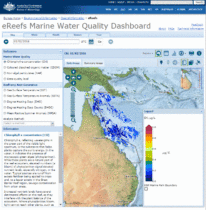
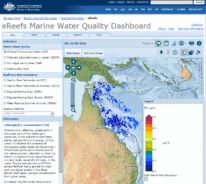
Outputs formatting (#96)
* Fix formatting on eReefs R package page

* Updated screenshots for eReefs outputs

* Add a screenshot for the R package

* Update the preview-images for eReefs outputs

diff --git a/docs/_outputs/open-source-software/ereefs-r-package.md b/docs/_outputs/open-source-software/ereefs-r-package.md
@@ -6,6 +6,8 @@ categories:
   - open-source-software
 ereefs_ip: false
 fa-icon: code
+preview_caption: Screenshot of the AIMS eReefs R package documentation made 2026-03-10
+preview_image: /assets/images/products/aims-ereefs-r-package.png
 title: eReefs R Package
 ---
 
@@ -16,7 +18,7 @@ An R package has been created to help R users to access and visualise eReefs mar
 
 <div style="clear: both;"></div>
 
-# Use Cases
+## Use Cases
 
 - Extracting time-series of simulated water quality at your monitoring stations, to use together with observational data.
 - Visualising a recent event in your area as an animated map.
@@ -24,7 +26,7 @@ An R package has been created to help R users to access and visualise eReefs mar
 - Extracting a vertical profile at a specified location and time.
 - Extracting a vertical slice at a specified location and time.
 
-# Installation instructions
+## Installation instructions
 
 Copy and paste the following lines into R:
 
@@ -35,36 +37,36 @@ if (!requireNamespace("remotes")) {
 remotes::install_github("open-aims/ereefs")
 ```
 
-# Featured Functions
+## Featured Functions
 
-## Extract time-series from eReefs netcdf files
+### Extract time-series from eReefs netcdf files
 
-[get_ereefs_ts()](https://open-aims.github.io/ereefs/reference/get_ereefs_ts.html)
-[get_ereefs_depth_integrated_ts ()](https://open-aims.github.io/ereefs/reference/get_ereefs_depth_integrated_ts.html)
-[get_ereefs_depth_specified_ts()](https://open-aims.github.io/ereefs/reference/get_ereefs_depth_specified_ts.html)
-[get_ereefs_bottom_ts()](https://open-aims.github.io/ereefs/reference/get_ereefs_bottom_ts.html)
+- [get_ereefs_ts()](https://open-aims.github.io/ereefs/reference/get_ereefs_ts.html)
+- [get_ereefs_depth_integrated_ts ()](https://open-aims.github.io/ereefs/reference/get_ereefs_depth_integrated_ts.html)
+- [get_ereefs_depth_specified_ts()](https://open-aims.github.io/ereefs/reference/get_ereefs_depth_specified_ts.html)
+- [get_ereefs_bottom_ts()](https://open-aims.github.io/ereefs/reference/get_ereefs_bottom_ts.html)
 
-## Produce maps or animations of eReefs model outputs
+### Produce maps or animations of eReefs model outputs
 
-[map_ereefs()](https://open-aims.github.io/ereefs/reference/map_ereefs.html)
-[map_ereefs_movie()](https://open-aims.github.io/ereefs/reference/map_ereefs_movie.html)
-[plot_map()](https://open-aims.github.io/ereefs/reference/plot_map.html)
+- [map_ereefs()](https://open-aims.github.io/ereefs/reference/map_ereefs.html)
+- [map_ereefs_movie()](https://open-aims.github.io/ereefs/reference/map_ereefs_movie.html)
+- [plot_map()](https://open-aims.github.io/ereefs/reference/plot_map.html)
 
-## Calculate optical plume class from modelled surface reflectances
+### Calculate optical plume class from modelled surface reflectances
 
-[plume_class()](https://open-aims.github.io/ereefs/reference/plume_class.html)
+- [plume_class()](https://open-aims.github.io/ereefs/reference/plume_class.html)
 
-## Extract profiles and vertical slices
+### Extract profiles and vertical slices
 
-[get_ereefs_profile()](https://open-aims.github.io/ereefs/reference/plot_ereefs_profile.html)
-[get_ereefs_slice()](https://open-aims.github.io/ereefs/reference/plot_ereefs_zvt.html)
+- [get_ereefs_profile()](https://open-aims.github.io/ereefs/reference/plot_ereefs_profile.html)
+- [get_ereefs_slice()](https://open-aims.github.io/ereefs/reference/plot_ereefs_zvt.html)
 
-## Plot profiles
+### Plot profiles
 
-[plot_ereefs_profile()](https://open-aims.github.io/ereefs/reference/plot_ereefs_profile.html)
-[plot_ereefs_zvt()](https://open-aims.github.io/ereefs/reference/plot_ereefs_zvt.html)
+- [plot_ereefs_profile()](https://open-aims.github.io/ereefs/reference/plot_ereefs_profile.html)
+- [plot_ereefs_zvt()](https://open-aims.github.io/ereefs/reference/plot_ereefs_zvt.html)
 
-## Convert outputs to GIS formats
+### Convert outputs to GIS formats
 
-[poly2sp()](https://open-aims.github.io/ereefs/reference/poly2sp.html)
-[sp2raster()](https://open-aims.github.io/ereefs/reference/sp2raster.html)
+- [poly2sp()](https://open-aims.github.io/ereefs/reference/poly2sp.html)
+- [sp2raster()](https://open-aims.github.io/ereefs/reference/sp2raster.html)

diff --git a/docs/_outputs/web-applications/data-explorer.md b/docs/_outputs/web-applications/data-explorer.md
@@ -5,7 +5,10 @@ categories:
   - web-application
   - web-application-featured
 fa-icon: layer-group
-preview_image: /assets/images/products/CSIRO-vis-portal-400x359.jpg
+preview_caption: >
+  Screenshot made on 2026-03-10 of the CSIRO eReefs Data Explorer showing GBR4 Total Chlorophyll and Sentinel 3B Mass Concentration of Chlorophyll-a overlaid
+  with coloured arrows from the GBR4 Sea Water Velocity layer. A timeseries plot of GBR4 total Chlorophyll is displayed in the footer.
+preview_image: /assets/images/products/csiro-data-explorer.png
 tile_url: https://portal.ereefs.info/map
 title: eReefs Data Explorer
 ---

diff --git a/docs/_outputs/web-applications/data-access-tutorials.md b/docs/_outputs/web-applications/data-access-tutorials.md
@@ -1,11 +1,13 @@
 ---
 agency: aims
-caption: Tutorials in Python and R for accessing, plotting and processing eReefs data
+caption: Python and R tutorials for eReefs data access and plotting
 categories:
   - data-access-featured
   - data-access-tutorial
   - web-application
 fa-icon: book-open
+preview_caption: Screenshot of the landing page for the AIMS eReefs tutorials website made 2026-03-10
+preview_image: /assets/images/products/aims-tutorials.png
 tile_url: https://open-aims.github.io/ereefs-tutorials/
 title: eReefs Data Access Tutorials
 ---

diff --git a/docs/_outputs/open-source-software/ereefs-data-access-notebooks.md b/docs/_outputs/open-source-software/ereefs-data-access-notebooks.md
@@ -1,12 +1,14 @@
 ---
 agency: csiro
 breadcrumbs: true
-caption: Jupyter Notebooks with working examples of using eReefs datasets
+caption: Jupyter Notebooks for Python + emsarray + eReefs data access
 categories:
   - data-access-featured
   - data-access-tutorial
   - open-source-software
 fa-icon: code
+preview_caption: Screenshot of the CSIRO eReefs Data Access Notebooks in the Nectar Binderhub service made 2026-03-10
+preview_image: /assets/images/products/csiro-data-access-notebooks.png
 title: eReefs Data Access Notebooks
 ---
 

diff --git a/docs/_outputs/web-applications/reef-temp.md b/docs/_outputs/web-applications/reef-temp.md
@@ -4,9 +4,10 @@ decommission_date: 2024-01-01
 caption: Information about coral bleaching risk for the GBR
 categories: web-application
 fa-icon: map
+preview_caption: Screenshot from 2016 of the now-decommissioned BOM ReefTemp Next Generation Dashboard
 preview_image: /assets/images/products/ReefTempNextGen-2016-400x359.jpg
 status: decommissioned
-title: ReefTemp Next Generation
+title: ReefTemp Next Generation Dashboard
 ---
 {% assign output = page %}
 {% include output-tile.md %}

diff --git a/docs/_outputs/web-applications/ereefs-visualisations.md b/docs/_outputs/web-applications/ereefs-visualisations.md
@@ -5,7 +5,8 @@ categories:
   - web-application
   - web-application-featured
 fa-icon: images
-preview_image: /assets/images/products/aims-ereefs.png
+preview_caption: Screenshot of the Hydrodynamics page from the AIMS eReefs Visualisations website made on 2026-03-10
+preview_image: /assets/images/products/aims-visualisations.png
 tile_url: https://ereefs.aims.gov.au/ereefs-aims
 title: eReefs Visualisations
 ---

diff --git a/docs/_outputs/web-applications/data-broker-api.md b/docs/_outputs/web-applications/data-broker-api.md
@@ -5,7 +5,8 @@ categories:
   - data-access-service
   - web-application
 fa-icon: tools
-preview_image: /assets/images/products/csiro-dbl.png
+preview_caption: Screenshot of the landing page for the CSIRO eReefs Data Broker API's Swagger documentation page made 2026-03-10
+preview_image: /assets/images/products/csiro-data-broker-api.png
 tile_url: https://data.ereefs.info/
 title: eReefs Data Broker API
 ---

diff --git a/docs/_outputs/open-source-software/csiro-emsarray.md b/docs/_outputs/open-source-software/csiro-emsarray.md
@@ -7,7 +7,7 @@ categories:
   - open-source-software-featured
 fa-icon: code
 preview_image: /assets/images/products/CSIRO-emsarray-example.webp
-preview_caption: |
+preview_caption: >
     Example of plotted EMS model output rendered using emsarray
 title: emsarray Python Library
 toc: false

diff --git a/docs/_outputs/open-source-software/ereefs-utility-scripts.md b/docs/_outputs/open-source-software/ereefs-utility-scripts.md
@@ -6,6 +6,8 @@ categories:
   - open-source-software
 ereefs_ip: false
 fa-icon: code
+preview_caption: Matlab language logo
+preview_image: https://upload.wikimedia.org/wikipedia/commons/thumb/2/21/Matlab_Logo.png/330px-Matlab_Logo.png
 title: eReefs Utility Scripts
 ---
 
